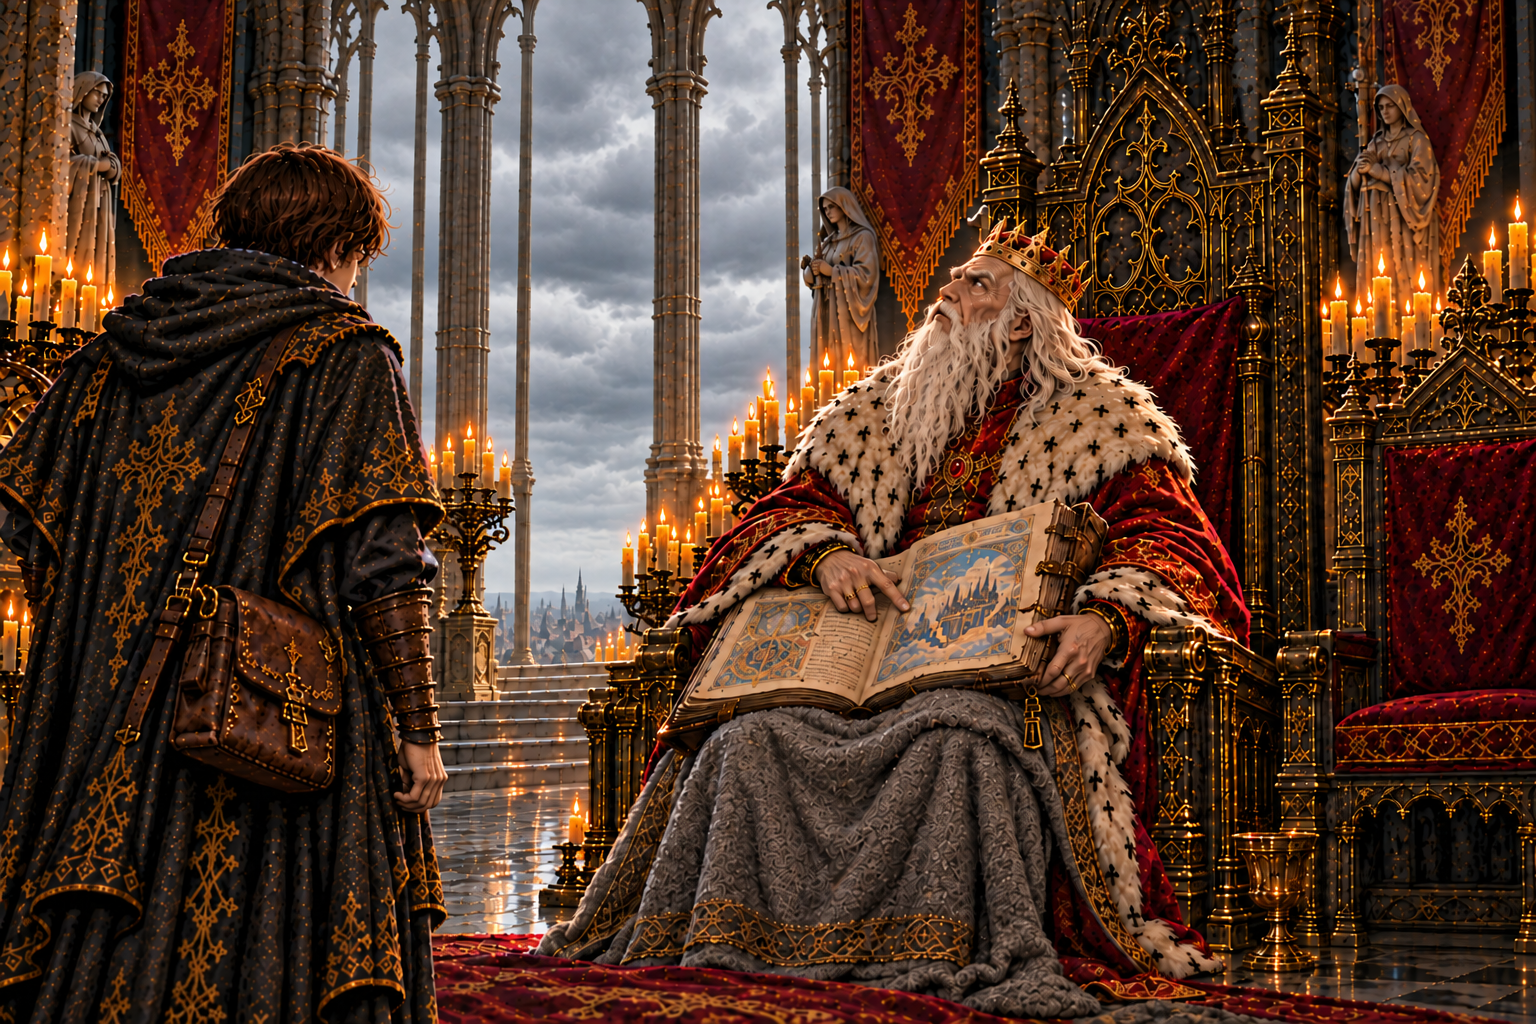
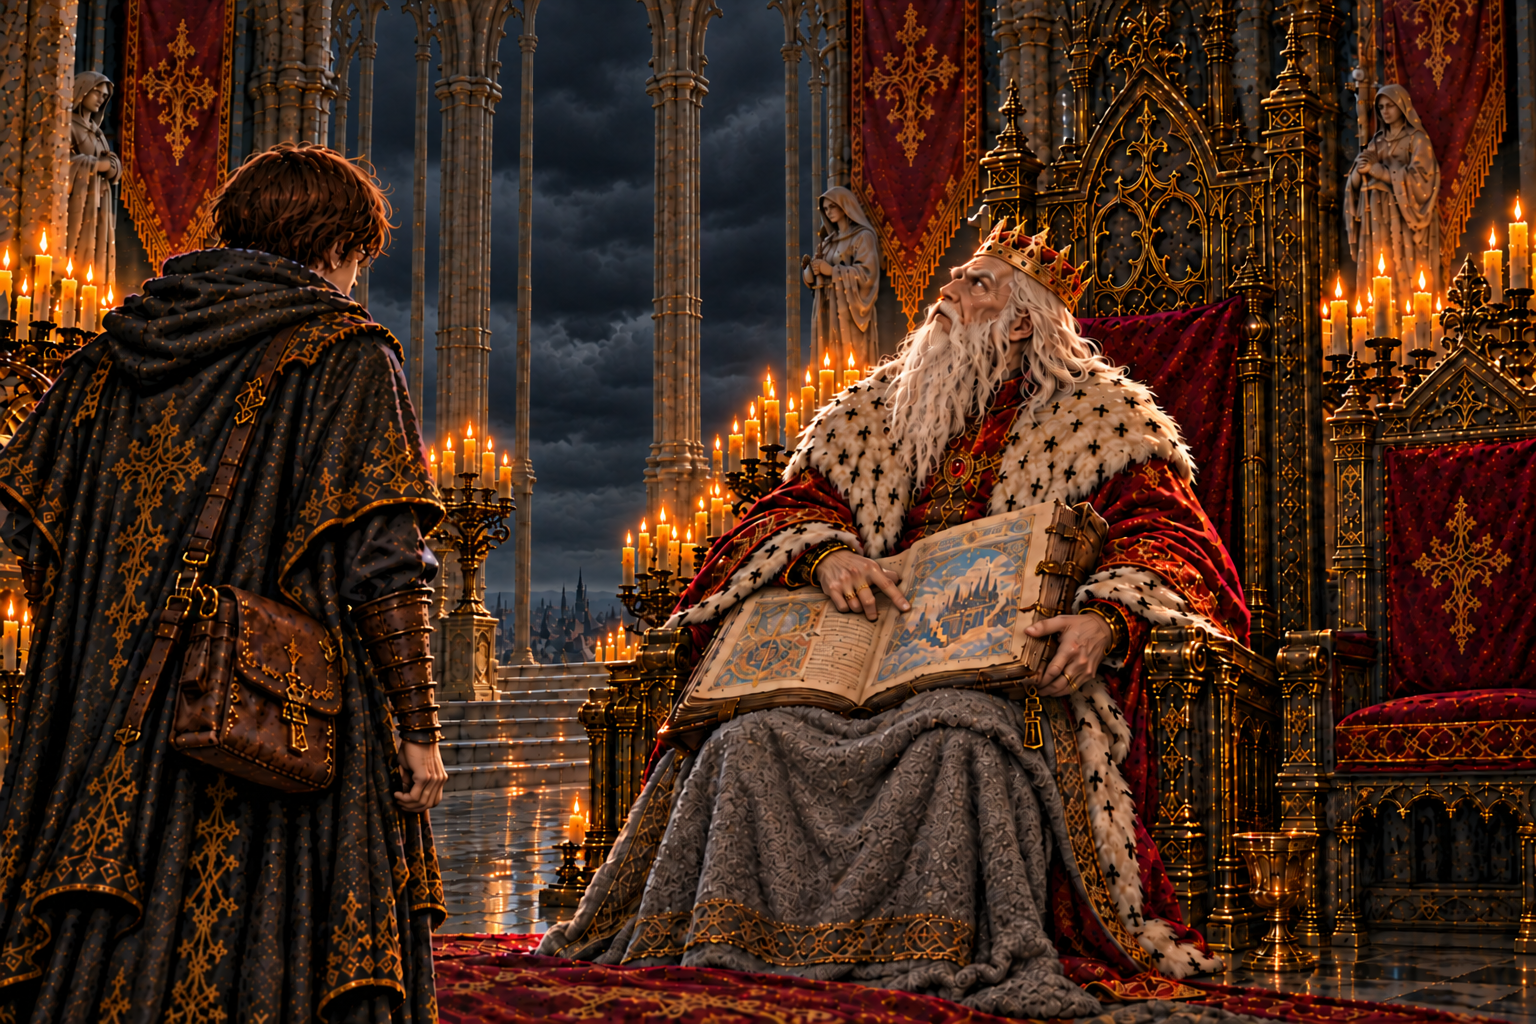
fix: 石橋の報告挿絵の雲をさらに暗くする

diff --git a/docs/art/codex-story-art-brief.md b/docs/art/codex-story-art-brief.md
@@ -720,9 +720,9 @@ A long ancient stone bridge stretching across a sea of storm clouds at dusk. Alo
 
 **report_w34「空の上の町」** (報告)
 - 要点: 百年晴れぬ空を見上げてきた王は、その上に橋があったと知らなかった。年代記の最初の頁「空の上に、歓声の絶えぬ町があった」。
-- 修正 (2026-10-14 ユーザーの指示): 報告の場所はロアダルの離宮。窓の外は快晴にせず、厚い灰色の雲が空を覆う。王都の晴れた空をこの場面へ流用しない。人物・年代記・室内の構図を保つ。(済)
+- 修正 (2026-10-14 ユーザーの指示): 報告の場所はロアダルの離宮。窓の外は快晴にせず、黒に近い濃灰色の厚い雲が空を覆う。初稿の明るい灰色より大幅に暗く、重苦しい空にする。王都の晴れた空をこの場面へ流用しない。人物・年代記・室内の構図と蝋燭の灯を保つ。(済)
 ```text
-The same throne room in the royal retreat at Roadal, with a fully overcast sky outside the tall windows: thick layered grey clouds cover the entire visible sky, with no blue openings, direct sunlight, or sunny white clouds. Roadal's sky is not the clear sky over the royal capital. The very old king, lap blanket over his knees, holds open a huge ancient chronicle on his lap, pointing to its first page, and looks up at the high sky through the window as if searching for something above the clouds. The chancellor's chair stands empty. The apprentice reports. When editing the existing illustration, preserve its composition, characters, costumes, chronicle, architecture, and warm candlelight; change only the exterior sky and the daylight it casts.
+The same throne room in the royal retreat at Roadal, with a fully overcast sky outside the tall windows: dense layered charcoal-grey clouds, nearly black in their deep folds, cover the entire visible sky. Make the sky substantially darker than ordinary grey overcast daylight, heavy and oppressive, with no bright white cloud bands, blue openings, direct sunlight, or sunny white clouds. Roadal's sky is not the clear sky over the royal capital. The very old king, lap blanket over his knees, holds open a huge ancient chronicle on his lap, pointing to its first page, and looks up at the high sky through the window as if searching for something above the clouds. The chancellor's chair stands empty. The apprentice reports. When editing the existing illustration, preserve its composition, characters, costumes, chronicle, architecture, and warm candlelight; change only the exterior sky and the daylight it casts.
 ```
 
 **w35_lamps「番号の灯籠」** (手がかり / 迷宮「闘獣の檻」)

diff --git a/art/story-review/fixes/report_w34.md b/art/story-review/fixes/report_w34.md
@@ -3,6 +3,7 @@
 2026-10-14のユーザー指示により、王への報告 `report_w34` の窓の外を快晴から厚い灰色の曇り空へ修正。報告の場所はロアダルの離宮であり、王都の晴れた空を流用しない。
 
 - [修正前の原画](report_w34-before.png)
+- [曇天の初稿](report_w34-overcast-first.png)
 - [修正後の原画](../chapter9/report_w34.png)
 - [絵と本文の確認ページ](../review/chapter9.md#report_w34)
 - [第九章の縮小見本](../review/chapter9-small.jpg)
@@ -10,6 +11,8 @@
 修正前の原画を最初の参照とし、`node tools/storyart/prompt.mjs report_w34` の出力と人物・室内の基準画像を渡して画像編集。人物、顔、衣装、年代記、室内の構図と暖かい蝋燭の灯を保持し、外の空と街に当たる昼の光を変更した。
 
 原画・WebPは1536×1024。全窓の空に青い晴れ間がないこと、王と弟子の顔・姿勢・見える手、空の宰相席、年代記、文字のない構図を目視確認。縮小見本でも曇天と年代記を確認した。
+
+追加指示「もっと暗い雲にして」を反映。曇天の初稿を保存し、それを参照して窓外を黒に近い濃灰色の雲へ描き直した。地平付近の明るい雲も暗くし、室内の蝋燭の灯を保持。人物・室内の構図と、暗い雲の層が見えることを目視確認した。
 
 `python3 tools/storyart/build.py` によるWebP変換・原画ハッシュ記録・確認ページと縮小見本の生成・登録検査・指示書検査・読み物検査はすべて成功。
 

diff --git a/art/story-review/review/chapter9.md b/art/story-review/review/chapter9.md
@@ -67,7 +67,7 @@
 **指示書 (4章)**
 
 - 要点: 百年晴れぬ空を見上げてきた王は、その上に橋があったと知らなかった。年代記の最初の頁「空の上に、歓声の絶えぬ町があった」。
-- 修正 (2026-10-14 ユーザーの指示): 報告の場所はロアダルの離宮。窓の外は快晴にせず、厚い灰色の雲が空を覆う。王都の晴れた空をこの場面へ流用しない。人物・年代記・室内の構図を保つ。(済)
+- 修正 (2026-10-14 ユーザーの指示): 報告の場所はロアダルの離宮。窓の外は快晴にせず、黒に近い濃灰色の厚い雲が空を覆う。初稿の明るい灰色より大幅に暗く、重苦しい空にする。王都の晴れた空をこの場面へ流用しない。人物・年代記・室内の構図と蝋燭の灯を保つ。(済)
 
 <a name="w35_lamps"></a>
 
